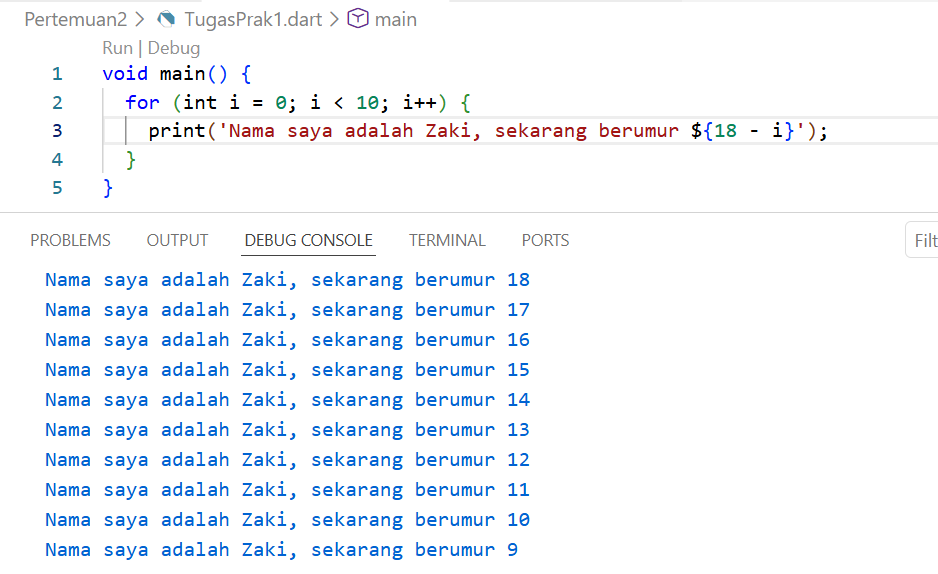
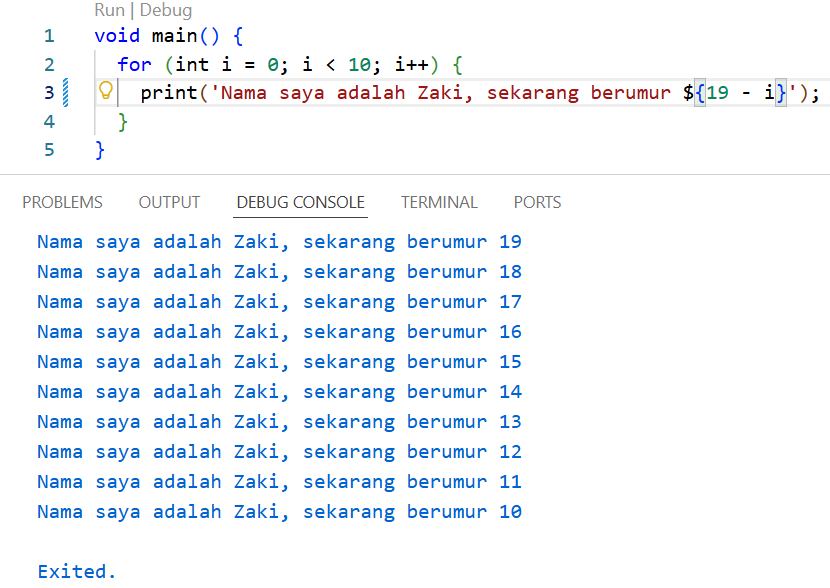
Pertemuan 2

diff --git a/Pertemuan2/TugasPrak2.dart b/Pertemuan2/TugasPrak2.dart
@@ -1,5 +1,5 @@
 void main() {
   for (int i = 0; i < 10; i++) {
-    print('Nama saya adalah Zaki, sekarang berumur ${18 - i}');
+    print('Nama saya adalah Zaki, sekarang berumur ${19 - i}');
   }
 }

diff --git a/Pertemuan2/NullSafety/withoutNullSafety.dart b/Pertemuan2/NullSafety/withoutNullSafety.dart
@@ -1,0 +1,4 @@
+void main() {
+  String nama;
+  print(nama); // ERROR: harus diinisialisasi dulu
+}

diff --git a/Pertemuan2/LateVariable/LateVariable.dart b/Pertemuan2/LateVariable/LateVariable.dart
@@ -1,0 +1,5 @@
+void main() {
+  late String nama;
+  nama = "Rahma";
+  print(nama);
+}

diff --git a/Pertemuan2/LateVariable/!LateVariable.dart b/Pertemuan2/LateVariable/!LateVariable.dart
@@ -1,0 +1,4 @@
+void main() {
+  late String nama;
+  print(nama); // ERROR runtime
+}

diff --git a/Pertemuan2/NullSafety/withNullSafety1.dart b/Pertemuan2/NullSafety/withNullSafety1.dart
@@ -1,0 +1,4 @@
+void main() {
+  String? nama;
+  print(nama); // Output: null
+}

diff --git a/Pertemuan2/NullSafety/withNullSafety2.dart b/Pertemuan2/NullSafety/withNullSafety2.dart
@@ -1,0 +1,4 @@
+void main() {
+  String nama = "Zaki";
+  print(nama);
+}

diff --git a/Pertemuan2/README.MD b/Pertemuan2/README.MD
@@ -1,0 +1,105 @@
+# Laporan Praktikum #01 - Pengantar Pemrograman Mobile
+
+## Identitas Mahasiswa
+
+| Atribut | Nilai                        |
+| ------- | -----                        |
+| Nama    | Rachmad Zaki Setyawan        |
+| NIM     | 244107060107                 |
+| Kelas   | SIB-2D                       |
+
+---
+
+## Tugas Praktikum 2
+
+### Soal 1
+
+Modifikasilah kode pada baris 3 di VS Code atau Editor Code favorit Anda berikut ini agar mendapatkan keluaran (output) sesuai yang diminta!
+
+Jawab:
+Berikut adalah hasil modifikasi kode program yang menghasilkan output sesuai dengan yang diminta
+
+![Hasil Modifikasi Kode Program](Pertemuan2.png)
+
+### Soal 2
+
+Mengapa sangat penting untuk memahami bahasa pemrograman Dart sebelum kita menggunakan framework Flutter ? Jelaskan!
+
+Jawab:
+Karena Bahasa dart adalah inti dari framework Flutter, Semua pengembangan framework Flutter melibatkan pengetahuan/fitur mendalam dengan bahasa Dart seperti Kode aplikasi, kode plugin, dan manajemen dependensi semuanya menggunakan bahasa Dart beserta fitur-fiturnya.
+
+### Soal 3
+
+Rangkumlah materi dari codelab ini menjadi poin-poin penting yang dapat Anda gunakan untuk membantu proses pengembangan aplikasi mobile menggunakan framework Flutter.
+
+Jawab :
+* Dart adalah bahasa inti yang digunakan untuk membangun aplikasi dengan Flutter.
+* Dart bersifat modern, object-oriented (OOP), dan type-safe.
+* Mendukung garbage collection untuk manajemen memori otomatis.
+* Memiliki dua mode eksekusi: JIT (untuk development & hot reload) dan AOT (untuk performa maksimal saat release).
+* Bersifat cross-platform (bisa untuk mobile, web, dan desktop).
+* Memiliki sintaks yang mirip dengan C/Java sehingga mudah dipelajari.
+* Mendukung berbagai operator (aritmatika, logika, relasional) untuk pengolahan data.
+* Setiap program Dart dimulai dari fungsi `main()`.
+* Memahami Dart sangat penting untuk menjadi developer Flutter yang produktif.
+
+### Soal 4
+
+Buatlah penjelasan dan contoh eksekusi kode tentang perbedaan Null Safety dan Late variabel !
+
+Jawab:
+
+## Null Safety
+Null Safety adalah fitur Dart yang mencegah variabel memiliki nilai null secara tidak sengaja.
+Secara default, variabel tidak boleh bernilai null kecuali kita menandainya dengan tanda ?.
+
+Tujuan:
+- Mengurangi error Null Pointer Exception
+- Meningkatkan keamanan kode
+- Bug bisa terdeteksi saat compile time
+
+# Tanpa Null Safety
+
+![Hasil](without.png)
+
+Akan error karena variabel nama belum diberi nilai. 
+Lalu untuk mengatasinya kita ada 2 cara yaitu
+
+# Dengan Nullable Type (?)
+
+![Hasil](with1.png)
+
+Penjelasan:
+String? artinya variabel boleh bernilai null. Program tetap berjalan dan mencetak null.
+
+# Dengan Non-Nullable
+
+![Hasil](with2.png)
+
+Aman karena sudah diberi nilai awal.
+
+## Late Variable
+
+Keyword late digunakan untuk menunda inisialisasi variabel, tetapi programmer berjanji bahwa variabel tersebut akan diisi sebelum digunakan.
+
+Biasanya digunakan:
+- Pada variabel yang tidak bisa langsung diinisialisasi
+- Pada class (misalnya di Flutter)
+
+# Dengan Late Variable
+
+![Hasil](LateVar.png)
+
+Tidak error karena variabel diisi sebelum digunakan.
+
+# Dengan Late Variable yang salah
+
+![Hasil](!LateVar.png)
+
+Karena variabel belum diberi nilai saat dipanggil.
+
+## Kesimpulan
+
+1. Null Safety mencegah variabel memiliki nilai null secara tidak sengaja.
+2. Late digunakan ketika variabel pasti akan diisi, tetapi tidak langsung saat deklarasi.
+3. Null safety lebih ke keamanan tipe data, sedangkan late lebih ke waktu inisialisasi.
